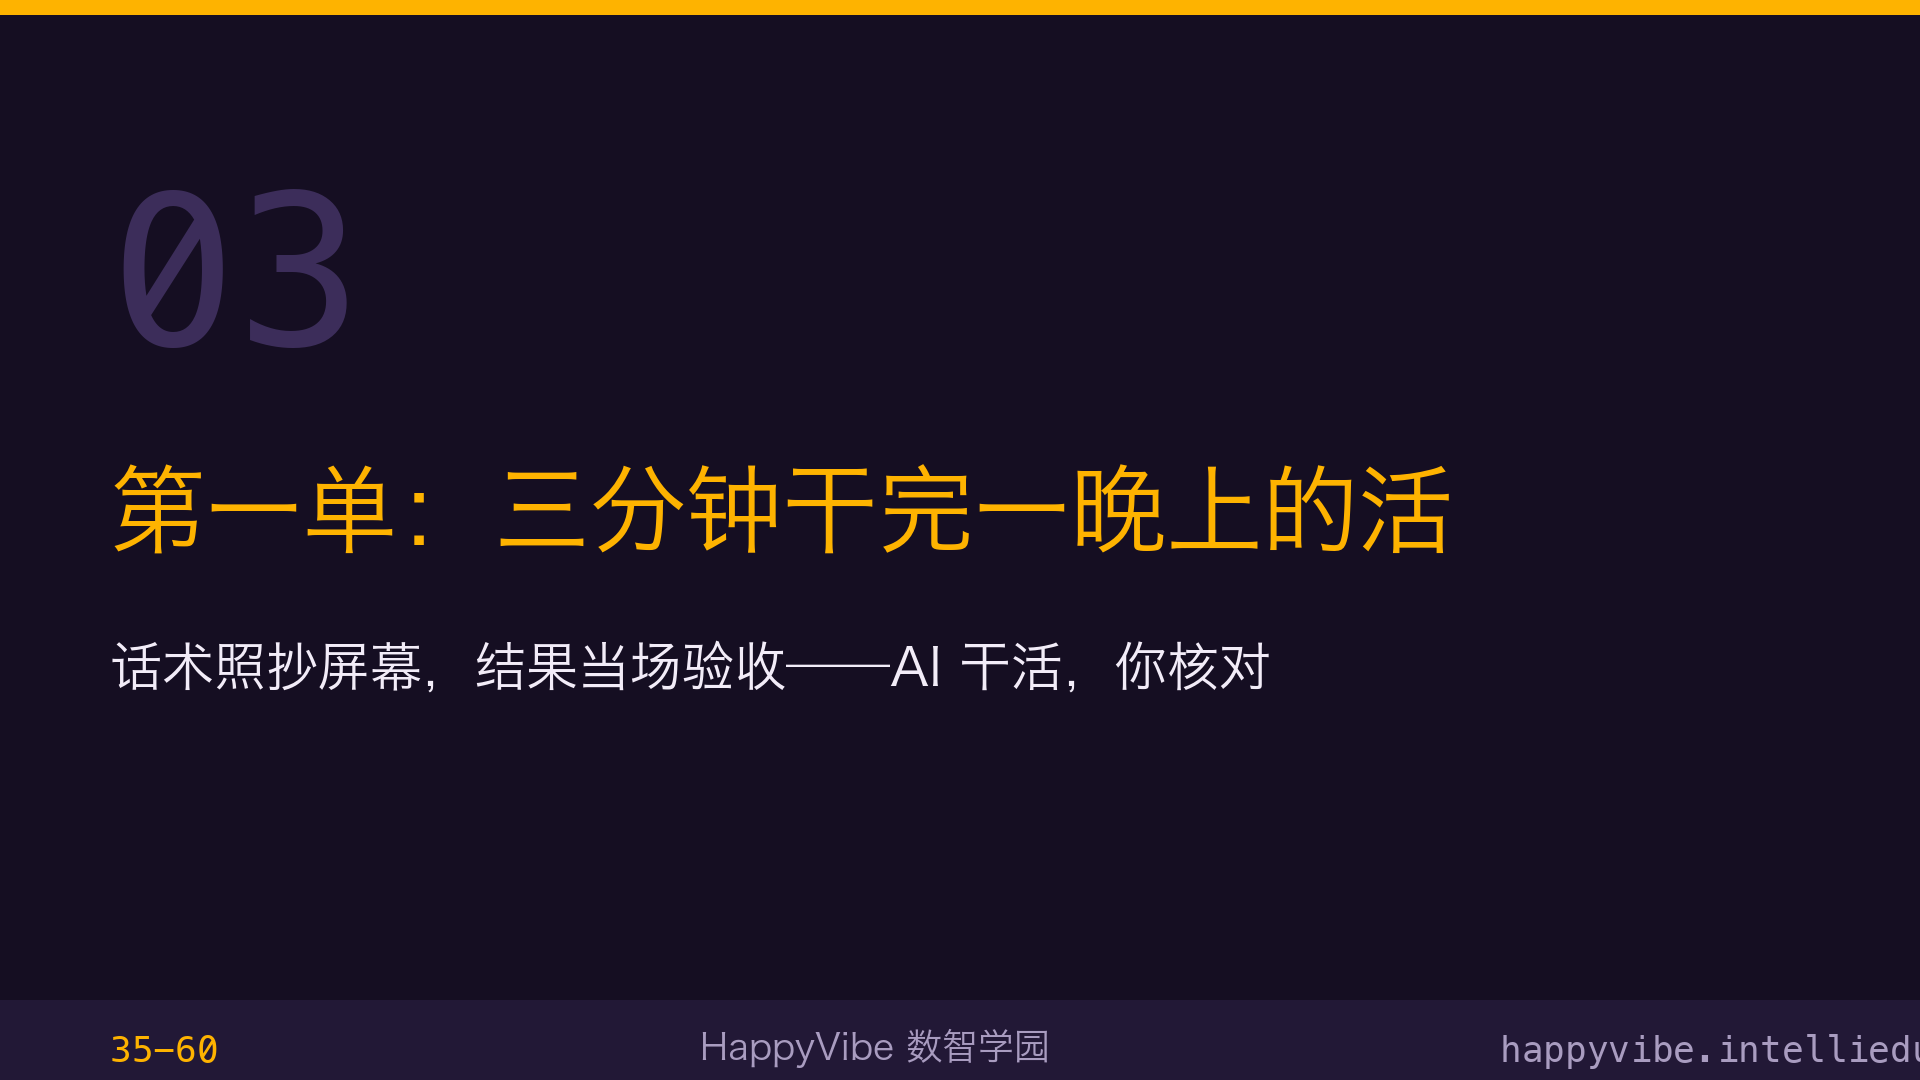
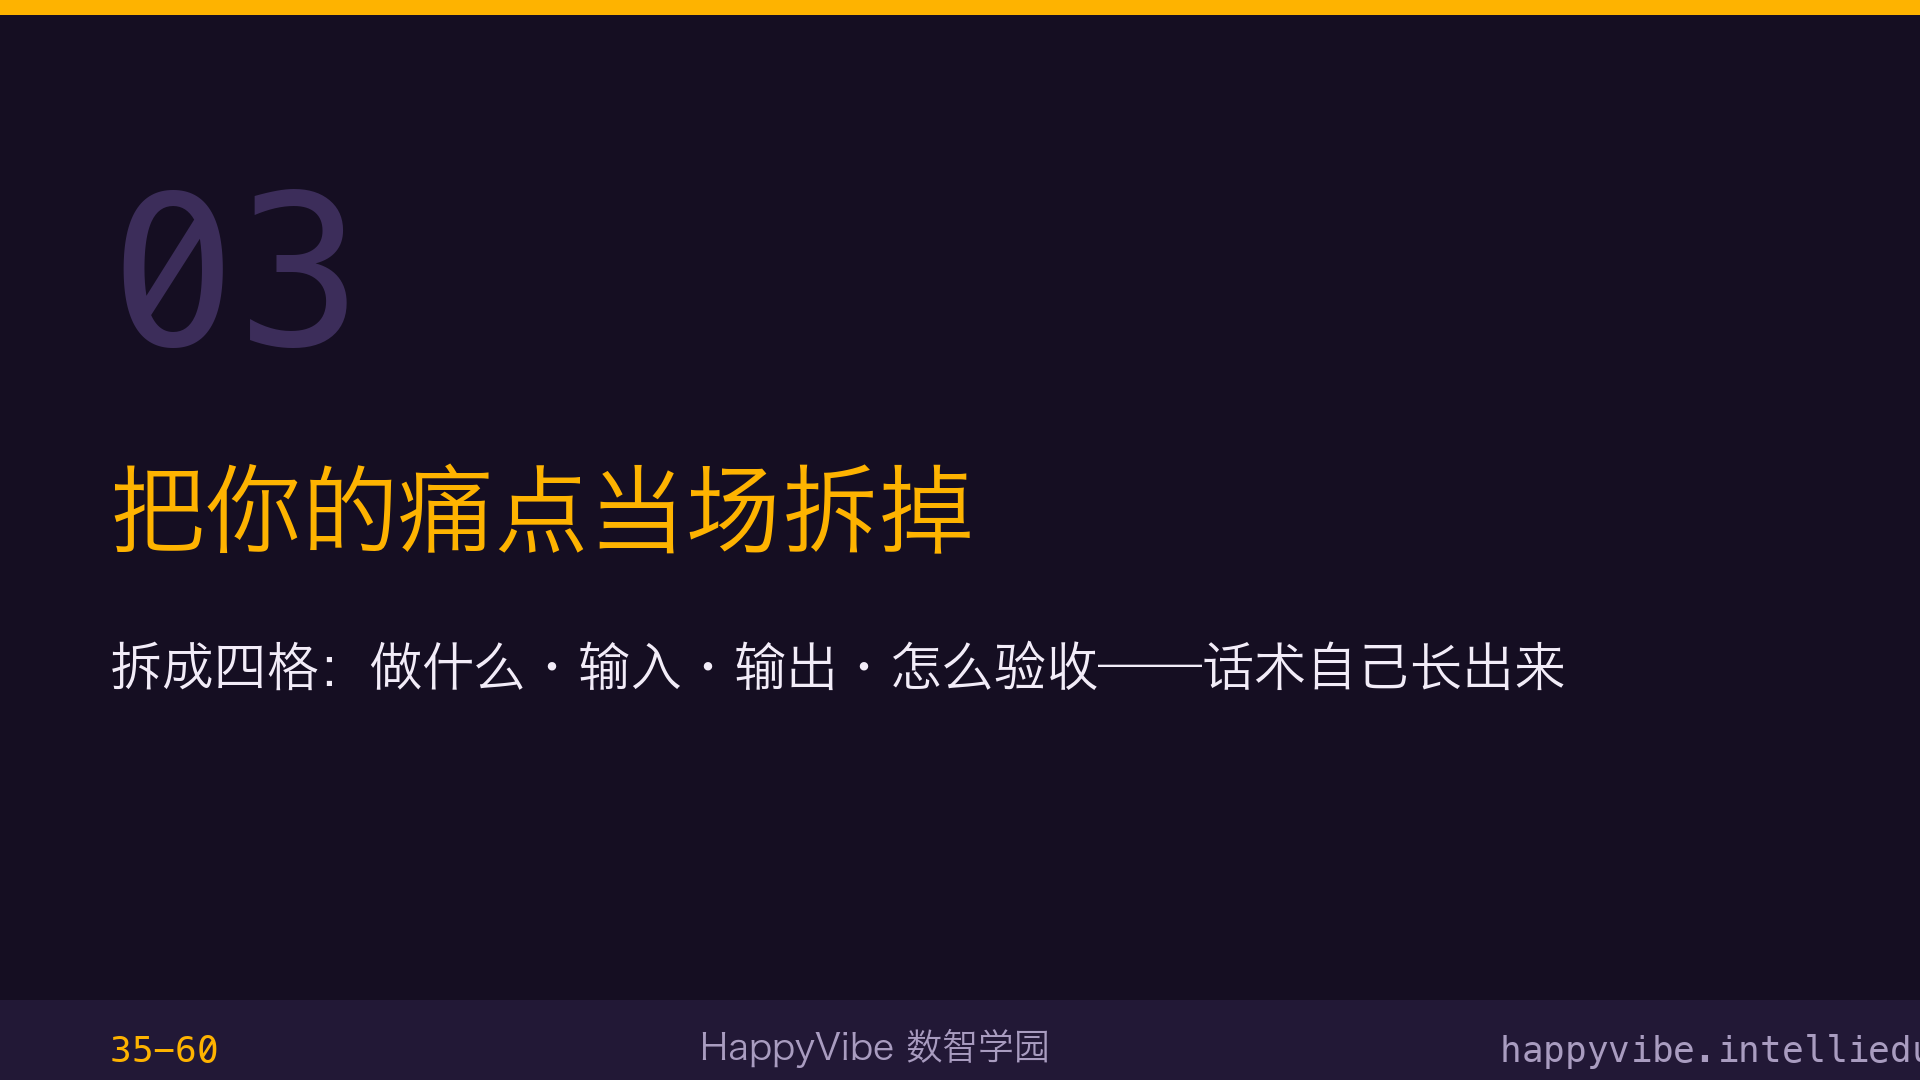
feat: 培训大纲v2按听众答案修订——第四幕改为痛点拆解工作坊(四格拆解单+示范+自拆,替代统干Excel);新增你的故事杀手锏页(跑了一学期的真系统);结束句用原话(AI不一定非要呈现在面前,也可以是在我们的身后);听众定位+务实三纪律

Changed region(s): [[0.0625, 0.4278, 0.75, 0.5194], [0.0625, 0.5806, 0.8125, 0.6417]]

diff --git a/scripts/build_training_deck.py b/scripts/build_training_deck.py
@@ -95,7 +95,7 @@ SLIDES = [
     ('00', '你每天被什么折磨', '先举手，对号入座——今天只解决你举手的那件事', '00:00-10'),
     ('01', '这些都是一句话做出来的', '太阳系、钢琴、会朗读的课文——散场前你也做一个', '10-20'),
     ('02', '全场唯一要装的软件', 'WorkBuddy，三分钟；装不上跟邻座拼一台', '20-35'),
-    ('03', '第一单：三分钟干完一晚上的活', '话术照抄屏幕，结果当场验收——AI 干活，你核对', '35-60'),
+    ('03', '把你的痛点当场拆掉', '拆成四格：做什么·输入·输出·怎么验收——话术自己长出来', '35-60'),
     ('04', '领你学科的弹药包', '15 个学科材料包，扫码带走', '60-75'),
     ('05', '做一个明天就能用的东西', '点名器（零基础）或学科网站（进阶），二选一', '75-105'),
     ('06', '作品墙', '截图发群里，互相看看做出来的东西', '105-115'),

diff --git a/docs/培训大纲.md b/docs/培训大纲.md
@@ -1,7 +1,10 @@
-# 周五培训 PPT 大纲（2 小时 + 加时 1 小时）
+# 周五培训 PPT 大纲（2 小时 + 加时 1 小时）· v2 按听众答案修订
 
 > 用法：每页大标题 + 少量大字，细节全部切网站演示。标了「切网站」的页，PPT 上只留一句话当底。
 > 情绪主线：让他们疼 → 让他们馋 → 让他们动手 → 让他们带走。
+>
+> **听众定位**：年轻老师、1-9 年级全学科、有班主任、领导只是听。他们大多已经会跟 AI 聊天——所以不讲「怎么对话」，讲「怎么把问题拆给 AI」。
+> **务实三纪律（防花架子）**：① 每个演示当场验收（抽数字/真使用）② 每个环节有实物产出 ③ 讲「会聊天的人也不会的事」：拆解、迭代、固化。
 
 ---
 
@@ -39,10 +42,15 @@
 - 口播：先自己玩两分钟（让大家手机打开任务库）
 - 切网站：任务库炫技区
 
-**P7 但作品不是重点**
+**P7 这是我做的系统（你的杀手锏页）**
+- 上页内容：排座系统 / 万事留痕的实机截图（不是话术截图，是跑了一学期的真系统）
+- 口播：我不是搞技术的，我就是班主任。这套东西当年是硬写的代码——今天，你们不用写代码也能做出这个级别的东西。这是你的身份优势，别浪费：台下没见过「一线老师亲手做出真系统」
+- 讲 5 分钟：从班里的一件事 → 长成系统的过程，含一个踩过的坑
+
+**P8 但作品不是重点**
 - 大字：智能体谁都能调，一句话出页面的工具一大把
 - 第二行：值钱的是你亲手跟 AI 磨出作品的过程——AI 在幕后，不在讲台表演
-- 口播：这是今天最重要的一页，讲慢一点
+- 口播：今天最重要的一页，讲慢一点
 
 ---
 
@@ -59,24 +67,36 @@
 
 ---
 
-## 第四幕 · 干（35-60，全场核心）
+## 第四幕 · 拆（35-60，全场核心：痛点拆解工作坊）
 
-**P10 第一单：把一晚上的统计交给 AI**
-- 上页内容：话术原文放大铺满整页（第 3 课的六要素话术）
-- 口播：一个字一个字抄，抄完发出去
-- 切网站：第 3 课；带真成绩表的老师用自己的化名数据
+> 不再统一干 Excel（太普通）。每人拆自己举手的那条痛点，当场变成话术、跑出结果。
 
-**P11 验收：AI 干活，事实层在老师**
-- 大字：抽一个数，自己算
-- 口播：对上了继续用；对不上正好——所以每一步都要抽查
+**P10 痛点拆解：四格**
+- 大字铺满：做什么（写动词）· 输入什么 · 要什么输出 · 怎么验收
+- 口播：会聊天的人满街都是；能把一件事拆成这四格的人，AI 才真正替他干活
+- 切网站：/pains/ 停在三问那块
 
-**P12 全场最重要的一问**
-- 大字：刚才这三分钟，替代了你平时多久的手工活？
-- 口播：问完闭嘴，静默三秒，让他们自己算。有人报数就重复他的数
+**P11 我来拆一个给你看（现场示范 10 分钟）**
+- 上页内容：拆解单模板（见下）
+- 口播：拿课前投票第一名的那条痛点，你当场填四格 → 生成话术 → 发出去 → 结果投屏 → 当场验收（哪个数/哪句话你自己核）
+- 拆解单模板（PPT 做成一页大字）：
+  1. 我每次要做的活：____（写动词，别写名词）
+  2. 它每次花我 ____，每 ____ 来一次
+  3. 三问：大量重复 □ 有固定流程 □ 要当面人情 □
+  4. 话术：我每次要【1】，输入是____，请帮我____，输出____，我用____来检查
+
+**P12 现在，拆你自己的（15 分钟，全场动手）**
+- 口播：把你开场举手的那条拿来拆。四格填完发给 AI；出来的东西先验收再欢呼
+- 你的动作：离讲台下去巡场——优先救「就差一步」的；看到好结果当场说「这位老师已经做出来了」
+- 卡点：拆不出来的 → 让他先写「每次花我多久」；AI 答非所问 → 九成是四格缺了一格，对照模板补
+
+**P13 全场最重要的一问**
+- 大字：刚才这一下，替代了你平时多久的活？
+- 口播：问完闭嘴，静默三秒。有人报数就重复他的数
 
 ---
 
-**P13 休息 + 领材料（60-75）**
+**P14 休息 + 领材料（60-75）**
 - 上页内容：材料包二维码大图
 - 口播：扫你自己学科的，看看里面有什么
 - 切网站：材料包页
@@ -85,13 +105,13 @@
 
 ## 第五幕 · 做（75-105）
 
-**P14 二选一**
+**P15 二选一**
 - 左半：A 线 · 点名器（零基础，明天就能用）成品截图
 - 右半：B 线 · 学科网站（进阶，做出你的主页）成品截图
 - 口播：半小时，每人做出一个；做完的就是你自己的
 - 切网站：任务三 / 任务一
 
-**P15 卡住了这样问 AI**
+**P16 卡住了这样问 AI**
 - 上页内容：求助话术模板（我做到第几步 / 屏幕显示什么 / 想做什么）
 - 口播：把这三行填了发给 AI 或发到群里，比说「不能用」快十倍
 
@@ -99,7 +119,7 @@
 
 ## 第六幕 · 晒（105-115）
 
-**P16 作品墙**
+**P17 作品墙**
 - 大字：截图 + 一句话发群里——给谁用的、解决什么
 - 口播：投屏轮播，点评两三个：一个好细节 + 一个别人能搬走的点
 - 结尾：打磨好的可署名收进站里任务库
@@ -108,28 +128,28 @@
 
 ## 第七幕 · 路（115-120）
 
-**P17 做完之后呢：五步**
+**P18 做完之后呢：五步**
 - 上页内容：用 → 改 → 给人用 → 固化成 Skill → 数据回流（五步台阶图）
 - 口播：别急着做下一个，先给你做的东西找一个用户
 
-**P18 三个去处**
+**P19 三个去处**
 - 三格：路线图七站 / 21 天挑战（每天 15 分钟）/ 比赛专区（10.15 截止 · 赛道④是我们的主场）
 - 口播：参不比赛没关系，今天做的东西就是起跑线
 - 切网站：路线图 / 挑战 / 比赛专区
 
-**P19 结束页**
-- 大字：AI 在幕后——省下来的时间，还给学生，也还给自己
+**P20 结束页**
+- 大字（你的原话）：AI 不一定非要呈现在面前，也可以是在我们的身后
 - 底部：答疑群二维码 + 网站地址
 
 ---
 
 ## 加时 · 自愿留下（60 分钟）
 
-**P20 加时：让全世界访问你的作品**
+**P21 加时：让全世界访问你的作品**
 - 三格图：买台服务器 → 三样信息交给 AI → 开 80 端口，外网上线
 - 口播：你只需要买机器和把信息交给 AI，剩下 AI 指挥你
 - 切网站：/modules/software/deploy-server/（五张示意图 + 六步流程全在里面）
 
-**P21 收尾**
+**P22 收尾**
 - 手机流量打开 http://IP 的成功截图
 - 大字：这叫上线。你会了。
